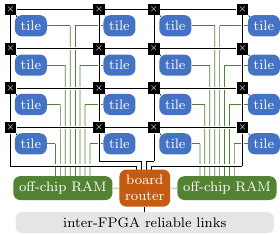
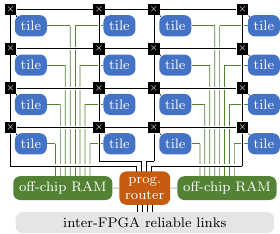
Update NoC diagram

Changed region(s): [[0.4286, 0.7179, 0.6, 0.8974]]

diff --git a/doc/figures/fpga.tex b/doc/figures/fpga.tex
@@ -351,19 +351,42 @@
   \draw[arrows=-,color=black] (south2b) to (south2c);
 
   \node[rounded corners,fill=myorange,minimum height=0.5cm] (boardrouter)
-   at (4.63cm,-1.8cm) {\footnotesize{board}\\[-1mm]\footnotesize{router}};
+   at (4.63cm,-1.8cm) {\footnotesize{prog.}\\[-1mm]\footnotesize{router}};
 
   \node[rounded corners,fill=gray!20, text=black,minimum width=5.25cm] (links)
     at (4.63cm, -3.2cm) {\footnotesize{inter-FPGA reliable links}};
 
-  \draw[arrows=-,color=black] (links.north) to (boardrouter.south);
+  \draw[arrows=-,color=black] ([xshift=-3mm]links.north) to
+    ([xshift=-3mm]boardrouter.south);
+  \draw[arrows=-,color=black] ([xshift=-1mm]links.north) to
+    ([xshift=-1mm]boardrouter.south);
+  \draw[arrows=-,color=black] ([xshift=1mm]links.north) to
+    ([xshift=1mm]boardrouter.south);
+  \draw[arrows=-,color=black] ([xshift=3mm]links.north) to
+    ([xshift=3mm]boardrouter.south);
 
-  % Is the board router connected to off-chip RAM?
+
+  % Connect board router to off-chip RAM
   \draw[arrows=-,color=mygreen] (ram0.east) to (boardrouter.west);
-  \draw[arrows=-,color=mygreen] (ram1.west) to (boardrouter.east);
+  %\draw[arrows=-,color=mygreen] ([yshift=3mm]ram0.east) to
+  %  ([yshift=3mm]boardrouter.west);
+  %\draw[arrows=-,color=mygreen] ([yshift=1mm]ram0.east) to
+  %  ([yshift=1mm]boardrouter.west);
+  %\draw[arrows=-,color=mygreen] ([yshift=-1mm]ram0.east) to
+  %  ([yshift=-1mm]boardrouter.west);
+  %\draw[arrows=-,color=mygreen] ([yshift=-3mm]ram0.east) to
+  %  ([yshift=-3mm]boardrouter.west);
 
+  \draw[arrows=-,color=mygreen] (ram1.west) to (boardrouter.east);
+  %\draw[arrows=-,color=mygreen] ([yshift=3mm]ram1.west) to
+  %  ([yshift=3mm]boardrouter.east);
+  %\draw[arrows=-,color=mygreen] ([yshift=1mm]ram1.west) to
+  %  ([yshift=1mm]boardrouter.east);
+  %\draw[arrows=-,color=mygreen] ([yshift=-1mm]ram1.west) to
+  %  ([yshift=-1mm]boardrouter.east);
+  %\draw[arrows=-,color=mygreen] ([yshift=-3mm]ram1.west) to
+  %  ([yshift=-3mm]boardrouter.east);
 
 \end{tikzpicture}
-
 
 \end{document}

diff --git a/README.md b/README.md
@@ -5,7 +5,7 @@ developed as part of the [POETS
 project](https://poets-project.org/about) (Partial Ordered Event
 Triggered Systems).  Further background can be found in our
 [publications](#i-publications).  If you're a POETS partner, you can
-access machines running Tinsel in the [POETS
+access Tinsel machines in the [POETS
 cloud](https://github.com/POETSII/poets-cloud).
 
 ## Release Log
